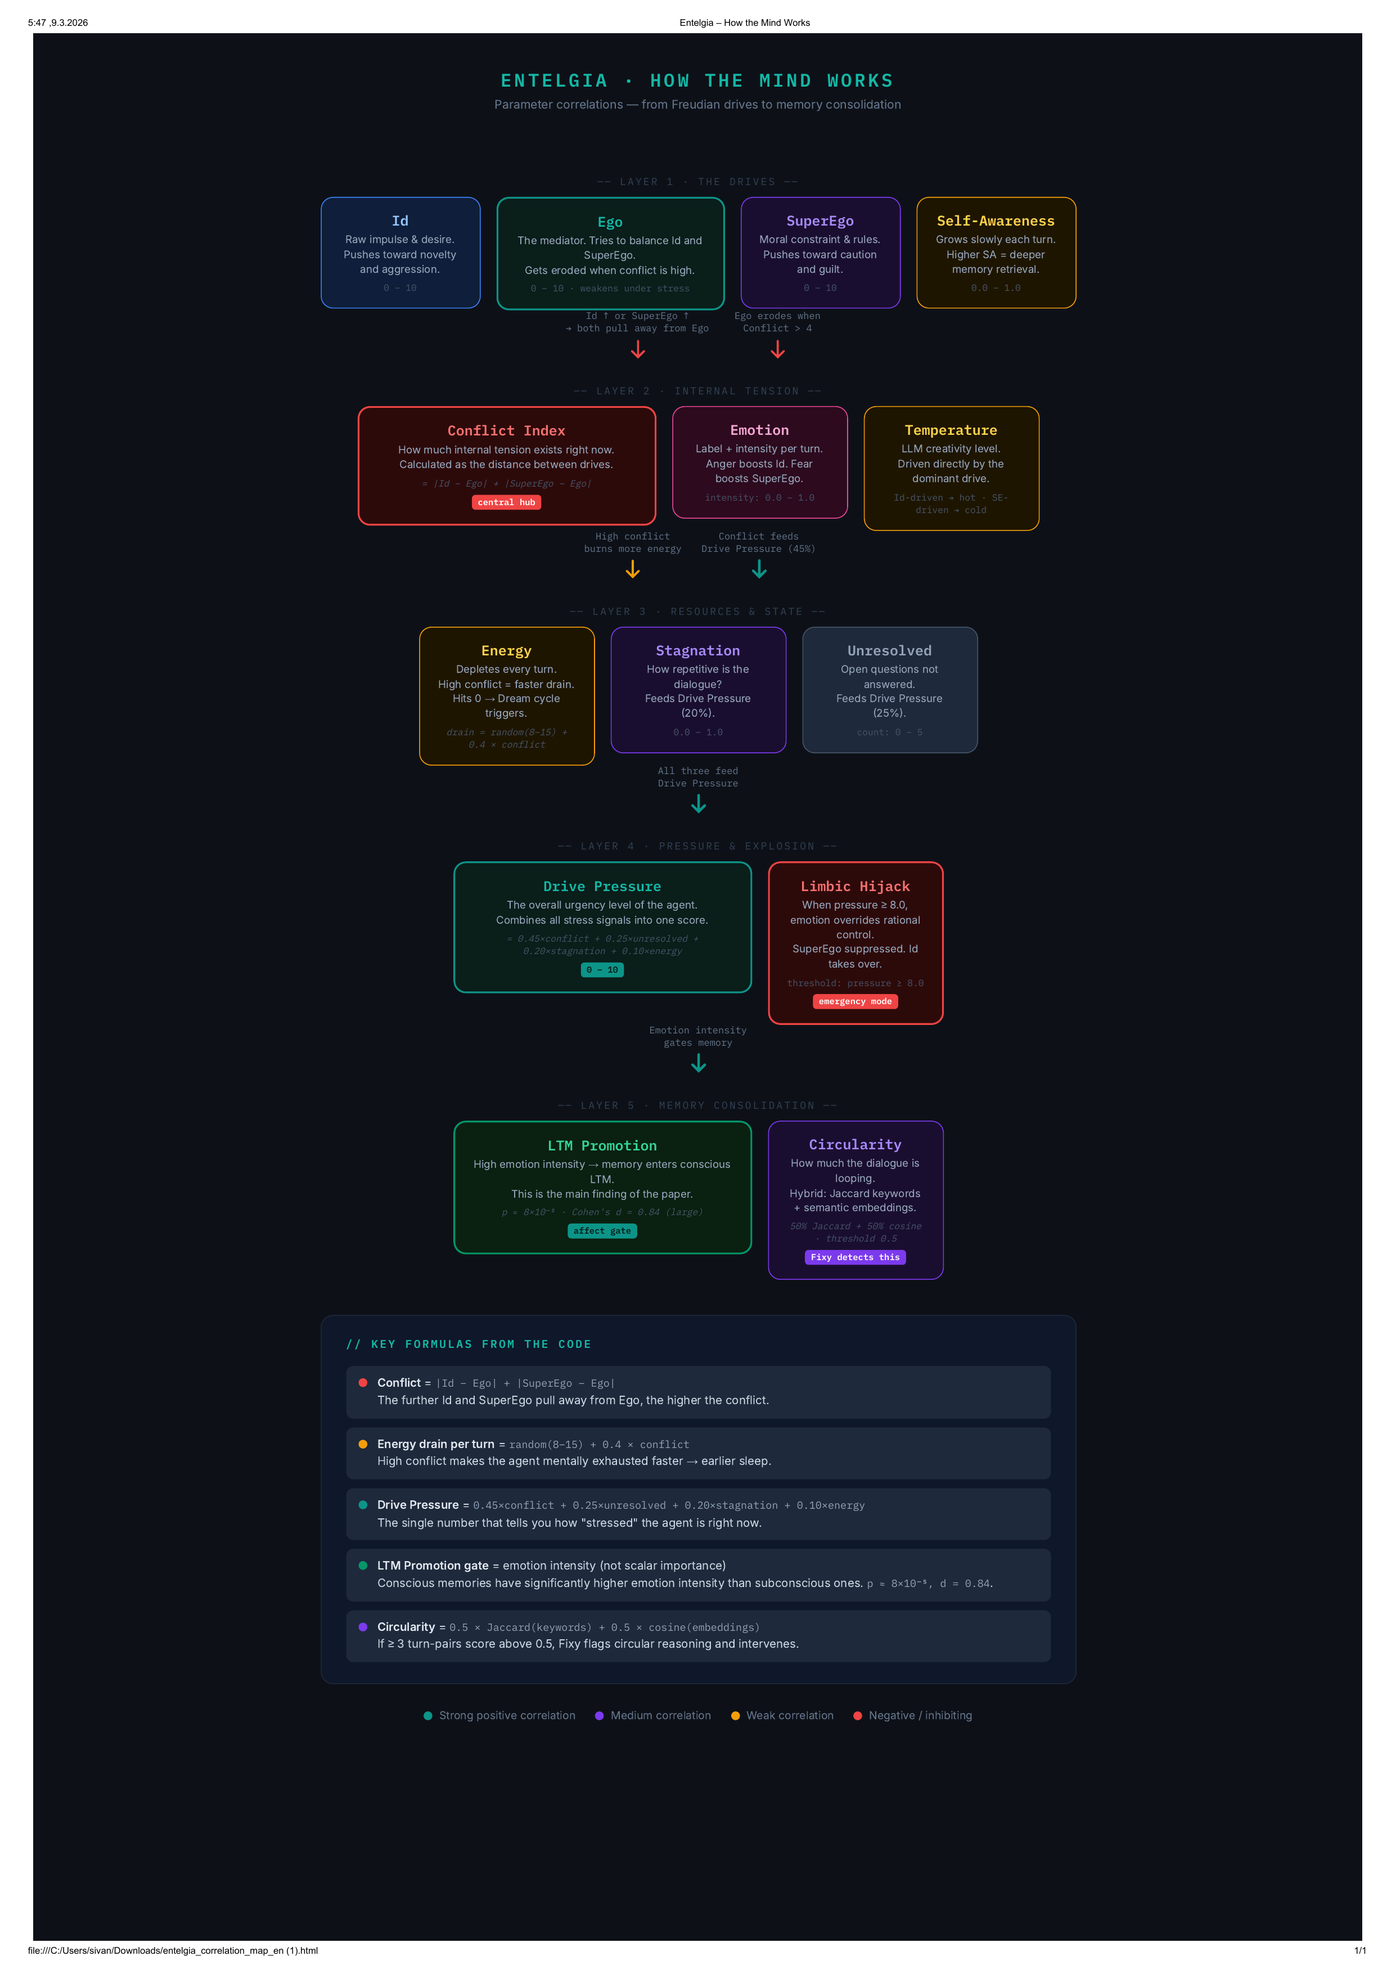
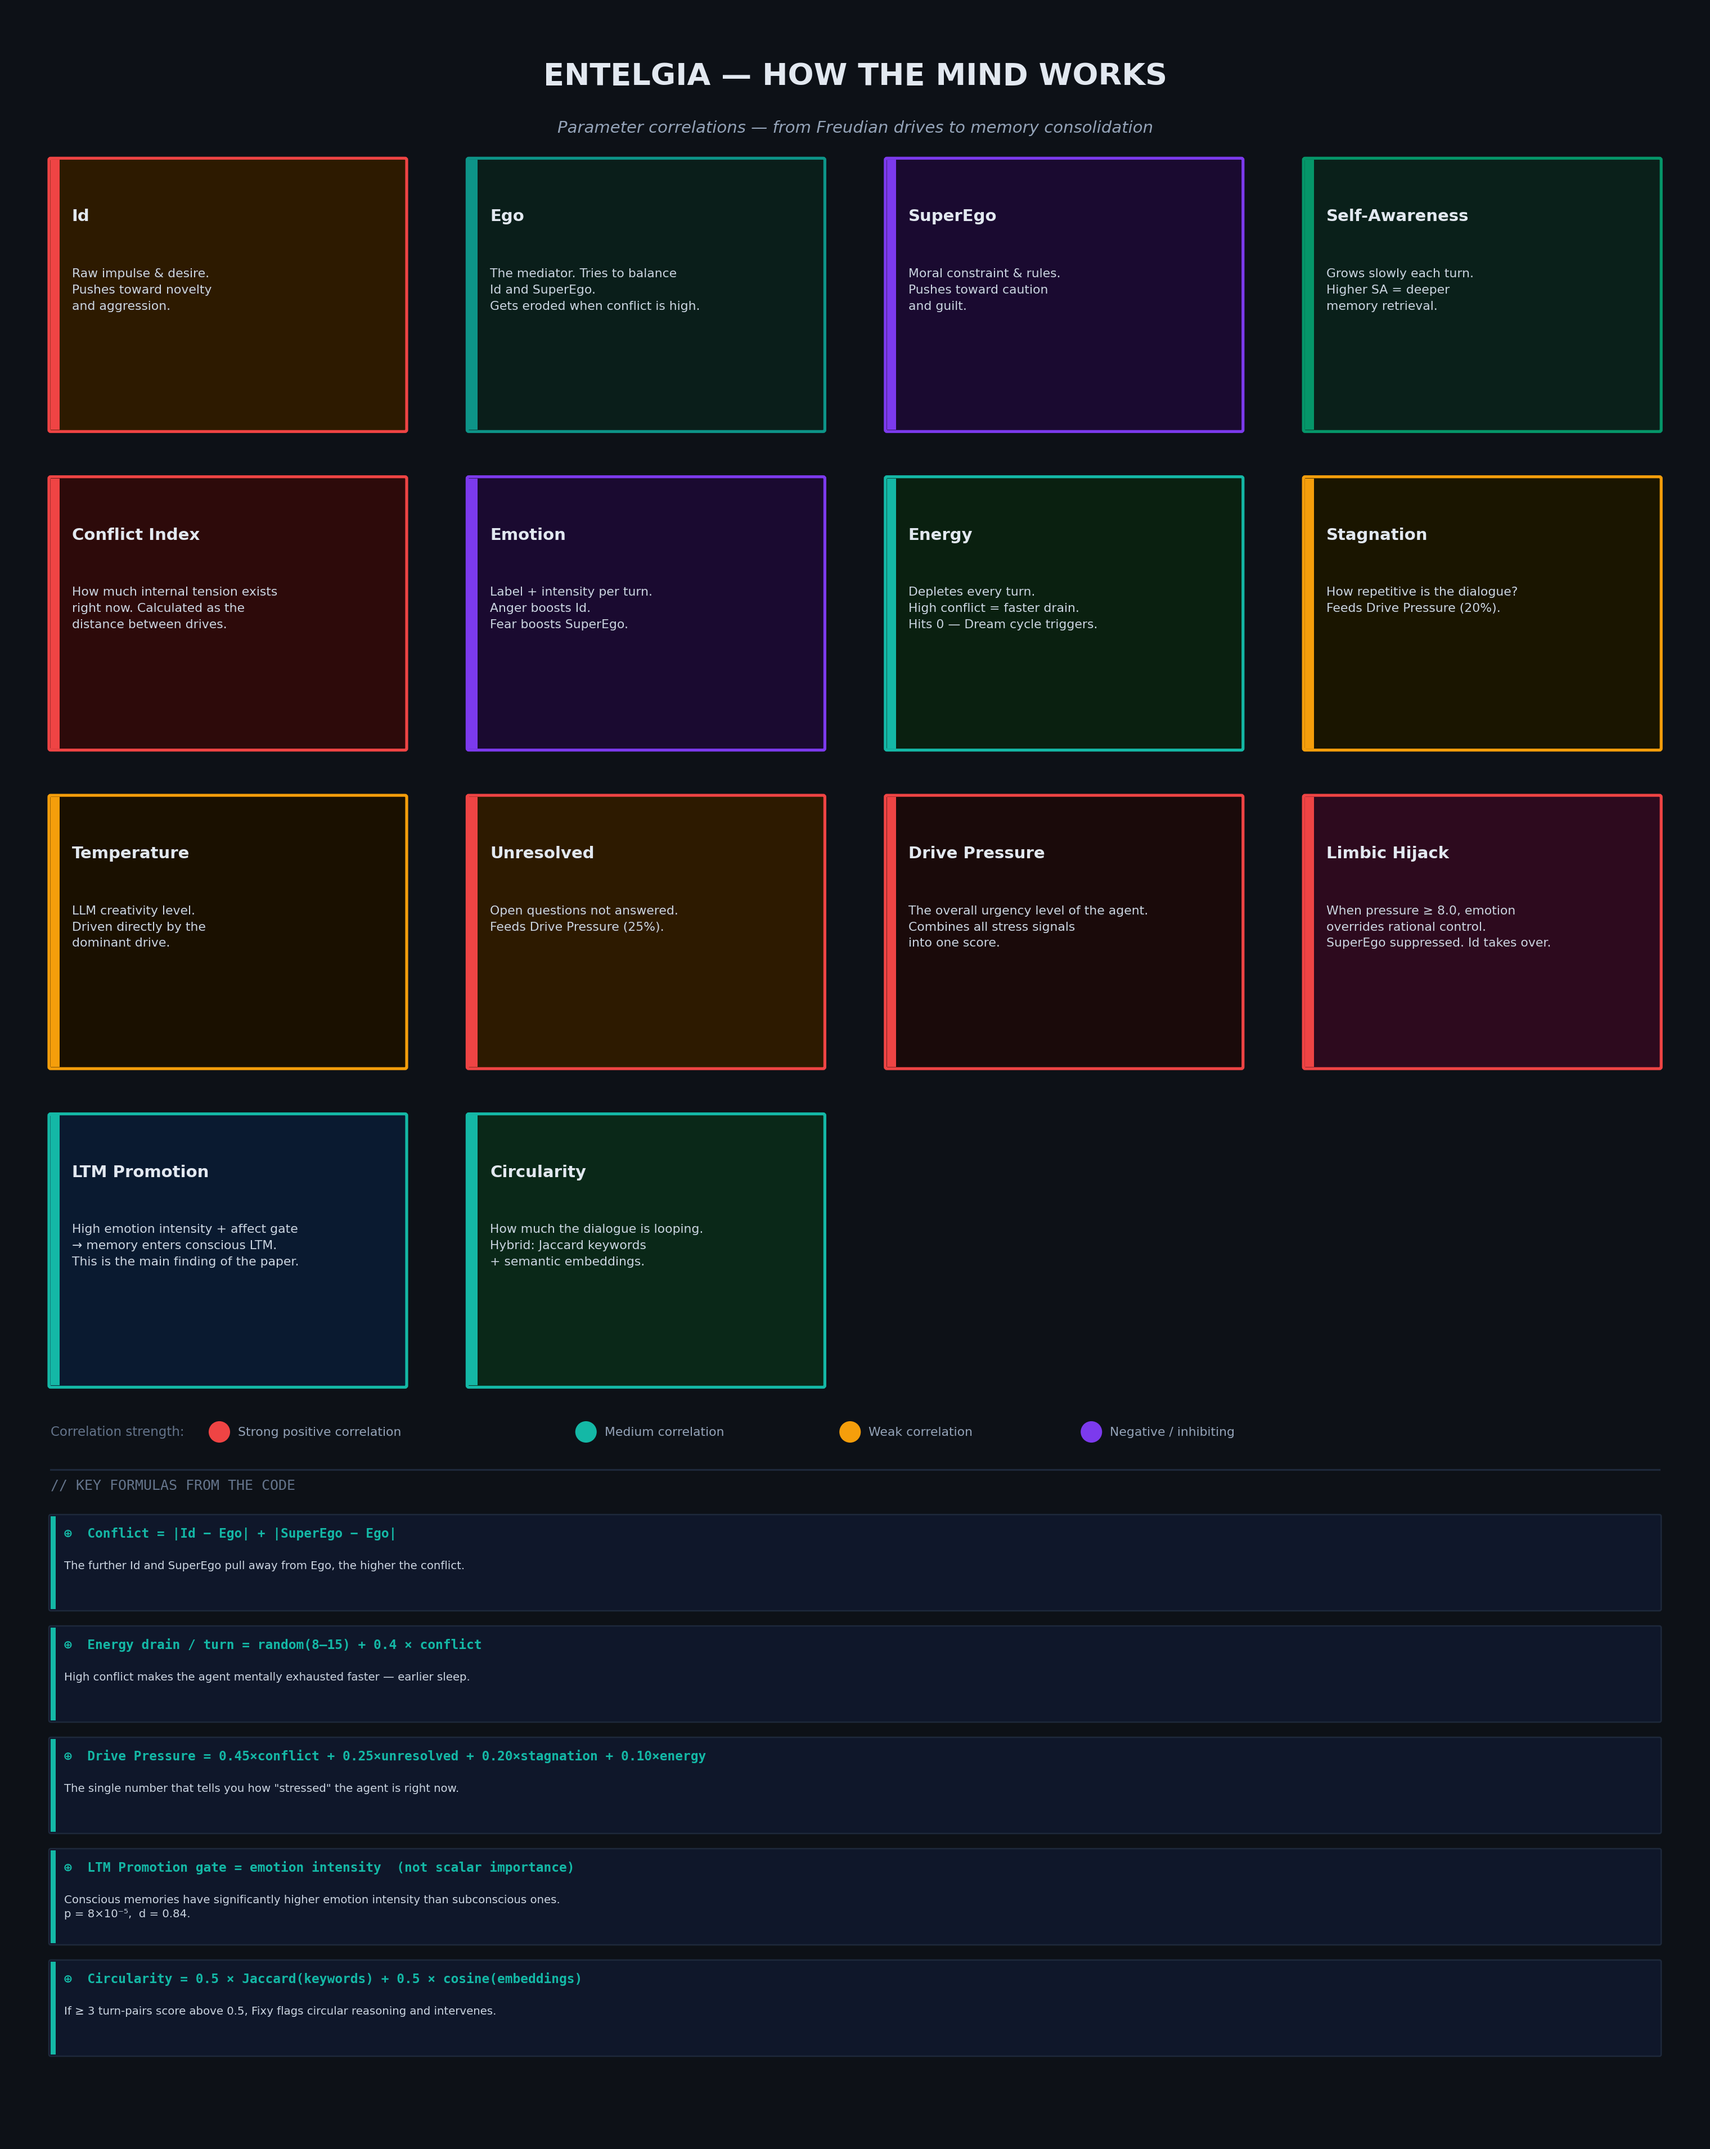
Regenerate correlation map with bigger squares and larger fonts

diff --git a/scripts/generate_correlation_map.py b/scripts/generate_correlation_map.py
@@ -1,0 +1,334 @@
+"""
+Generate Assets/entelgia_correlation_map.png
+
+Produces a styled parameter-correlation diagram for the Entelgia cognitive
+architecture.  Run from the repository root:
+
+    python scripts/generate_correlation_map.py
+
+Requires: matplotlib
+"""
+
+import os
+import sys
+import textwrap
+
+import matplotlib
+matplotlib.use("Agg")
+import matplotlib.pyplot as plt
+import matplotlib.patches as mpatches
+from matplotlib.patches import FancyBboxPatch
+
+# ---------------------------------------------------------------------------
+# Layout & theme
+# ---------------------------------------------------------------------------
+
+BG = "#0d1117"
+CARD_COLORS = {
+    "id":          "#2d1a00",
+    "ego":         "#0a1e1a",
+    "superego":    "#1a0a30",
+    "sa":          "#0a201a",
+    "conflict":    "#2d0a0a",
+    "emotion":     "#1a0a30",
+    "energy":      "#0a2010",
+    "stagnation":  "#1a1500",
+    "temperature": "#1a1000",
+    "unresolved":  "#2d1a00",
+    "pressure":    "#1a0a0a",
+    "hijack":      "#2d0a1e",
+    "ltm":         "#0a1a30",
+    "circularity": "#0a2818",
+}
+
+BORDER_COLORS = {
+    "id":          "#ef4444",
+    "ego":         "#0d9488",
+    "superego":    "#7c3aed",
+    "sa":          "#059669",
+    "conflict":    "#ef4444",
+    "emotion":     "#7c3aed",
+    "energy":      "#14b8a6",
+    "stagnation":  "#f59e0b",
+    "temperature": "#f59e0b",
+    "unresolved":  "#ef4444",
+    "pressure":    "#ef4444",
+    "hijack":      "#ef4444",
+    "ltm":         "#14b8a6",
+    "circularity": "#14b8a6",
+}
+
+TITLE_COLOR = "#e2e8f0"
+SUBTITLE_COLOR = "#94a3b8"
+BODY_COLOR = "#cbd5e1"
+LABEL_COLOR = "#64748b"
+FORMULA_BG = "#0f172a"
+FORMULA_TEXT = "#e2e8f0"
+FORMULA_ACCENT = "#14b8a6"
+
+# ---------------------------------------------------------------------------
+# Parameter card data
+# ---------------------------------------------------------------------------
+
+PARAMS = [
+    ("id",          "Id",              "Raw impulse & desire.\nPushes toward novelty\nand aggression."),
+    ("ego",         "Ego",             "The mediator. Tries to balance\nId and SuperEgo.\nGets eroded when conflict is high."),
+    ("superego",    "SuperEgo",        "Moral constraint & rules.\nPushes toward caution\nand guilt."),
+    ("sa",          "Self-Awareness",  "Grows slowly each turn.\nHigher SA = deeper\nmemory retrieval."),
+    ("conflict",    "Conflict Index",  "How much internal tension exists\nright now. Calculated as the\ndistance between drives."),
+    ("emotion",     "Emotion",         "Label + intensity per turn.\nAnger boosts Id.\nFear boosts SuperEgo."),
+    ("energy",      "Energy",          "Depletes every turn.\nHigh conflict = faster drain.\nHits 0 — Dream cycle triggers."),
+    ("stagnation",  "Stagnation",      "How repetitive is the dialogue?\nFeeds Drive Pressure (20%)."),
+    ("temperature", "Temperature",     "LLM creativity level.\nDriven directly by the\ndominant drive."),
+    ("unresolved",  "Unresolved",      "Open questions not answered.\nFeeds Drive Pressure (25%)."),
+    ("pressure",    "Drive Pressure",  "The overall urgency level of the agent.\nCombines all stress signals\ninto one score."),
+    ("hijack",      "Limbic Hijack",   "When pressure ≥ 8.0, emotion\noverrides rational control.\nSuperEgo suppressed. Id takes over."),
+    ("ltm",         "LTM Promotion",   "High emotion intensity + affect gate\n→ memory enters conscious LTM.\nThis is the main finding of the paper."),
+    ("circularity", "Circularity",     "How much the dialogue is looping.\nHybrid: Jaccard keywords\n+ semantic embeddings."),
+]
+
+FORMULAS = [
+    (
+        "Conflict",
+        "Conflict = |Id − Ego| + |SuperEgo − Ego|",
+        "The further Id and SuperEgo pull away from Ego, the higher the conflict.",
+    ),
+    (
+        "Energy drain",
+        "Energy drain / turn = random(8–15) + 0.4 × conflict",
+        "High conflict makes the agent mentally exhausted faster — earlier sleep.",
+    ),
+    (
+        "Drive Pressure",
+        "Drive Pressure = 0.45×conflict + 0.25×unresolved + 0.20×stagnation + 0.10×energy",
+        'The single number that tells you how "stressed" the agent is right now.',
+    ),
+    (
+        "LTM Promotion",
+        "LTM Promotion gate = emotion intensity  (not scalar importance)",
+        "Conscious memories have significantly higher emotion intensity than subconscious ones.\n"
+        "p = 8×10⁻⁵,  d = 0.84.",
+    ),
+    (
+        "Circularity",
+        "Circularity = 0.5 × Jaccard(keywords) + 0.5 × cosine(embeddings)",
+        "If ≥ 3 turn-pairs score above 0.5, Fixy flags circular reasoning and intervenes.",
+    ),
+]
+
+LEGEND = [
+    ("#ef4444", "Strong positive correlation"),
+    ("#14b8a6", "Medium correlation"),
+    ("#f59e0b", "Weak correlation"),
+    ("#7c3aed", "Negative / inhibiting"),
+]
+
+# ---------------------------------------------------------------------------
+# Drawing helpers
+# ---------------------------------------------------------------------------
+
+COLS = 4
+ROWS_PARAMS = (len(PARAMS) + COLS - 1) // COLS   # ceil
+
+# Figure dimensions — large so cells and text are clearly readable
+CELL_W = 4.2    # inches per column
+CELL_H = 3.2    # inches per row (bigger squares)
+H_PAD  = 0.18  # horizontal gap between cells (fraction of CELL_W)
+V_PAD  = 0.18  # vertical gap between cells (fraction of CELL_H)
+MARGIN_TOP    = 1.8   # inches
+MARGIN_BOTTOM = 0.6
+MARGIN_LR     = 0.5
+
+FIG_W = COLS * CELL_W + (COLS - 1) * CELL_W * H_PAD + 2 * MARGIN_LR
+# formula section height
+FORMULA_H = len(FORMULAS) * 1.35 + 1.0
+FIG_H = (MARGIN_TOP
+         + ROWS_PARAMS * CELL_H + (ROWS_PARAMS - 1) * CELL_H * V_PAD
+         + 0.6            # legend strip
+         + FORMULA_H
+         + MARGIN_BOTTOM)
+
+
+def _card(ax, x, y, w, h, key):
+    """Draw one parameter card at data-coordinates (x, y)."""
+    key_id, label, desc = next(p for p in PARAMS if p[0] == key)
+    bg   = CARD_COLORS[key]
+    edge = BORDER_COLORS[key]
+
+    # Card background
+    rect = FancyBboxPatch(
+        (x, y), w, h,
+        boxstyle="round,pad=0.02",
+        facecolor=bg,
+        edgecolor=edge,
+        linewidth=2.5,
+        zorder=2,
+    )
+    ax.add_patch(rect)
+
+    # Colour indicator bar on the left edge
+    bar = mpatches.Rectangle(
+        (x, y), w * 0.025, h,
+        facecolor=edge,
+        zorder=3,
+    )
+    ax.add_patch(bar)
+
+    # Label
+    ax.text(
+        x + w * 0.06, y + h * 0.82,
+        label,
+        color=TITLE_COLOR,
+        fontsize=14,
+        fontweight="bold",
+        va="top",
+        ha="left",
+        zorder=4,
+    )
+
+    # Description
+    ax.text(
+        x + w * 0.06, y + h * 0.60,
+        desc,
+        color=BODY_COLOR,
+        fontsize=10.5,
+        va="top",
+        ha="left",
+        linespacing=1.55,
+        zorder=4,
+    )
+
+
+# ---------------------------------------------------------------------------
+# Main
+# ---------------------------------------------------------------------------
+
+def generate(output_path: str) -> None:
+    fig = plt.figure(figsize=(FIG_W, FIG_H), facecolor=BG)
+    ax  = fig.add_axes([0, 0, 1, 1])
+    ax.set_facecolor(BG)
+    ax.set_xlim(0, FIG_W)
+    ax.set_ylim(0, FIG_H)
+    ax.axis("off")
+
+    # ── Header ────────────────────────────────────────────────────────────
+    header_y = FIG_H - MARGIN_TOP * 0.35
+    ax.text(
+        FIG_W / 2, header_y,
+        "ENTELGIA — HOW THE MIND WORKS",
+        color=TITLE_COLOR,
+        fontsize=26,
+        fontweight="bold",
+        ha="center",
+        va="top",
+    )
+    ax.text(
+        FIG_W / 2, header_y - 0.7,
+        "Parameter correlations — from Freudian drives to memory consolidation",
+        color=SUBTITLE_COLOR,
+        fontsize=14,
+        ha="center",
+        va="top",
+        style="italic",
+    )
+
+    # ── Parameter cards ───────────────────────────────────────────────────
+    cw = CELL_W
+    ch = CELL_H
+    gx = cw * H_PAD
+    gy = ch * V_PAD
+
+    grid_top = FIG_H - MARGIN_TOP
+    for i, (key, _label, _desc) in enumerate(PARAMS):
+        col = i % COLS
+        row = i // COLS
+        x = MARGIN_LR + col * (cw + gx)
+        y = grid_top - (row + 1) * ch - row * gy
+        _card(ax, x, y, cw, ch, key)
+
+    # ── Legend strip ──────────────────────────────────────────────────────
+    legend_y = (grid_top
+                - ROWS_PARAMS * ch
+                - (ROWS_PARAMS - 1) * gy
+                - 0.55)
+    lx = MARGIN_LR
+    ax.text(lx, legend_y, "Correlation strength:", color=LABEL_COLOR,
+            fontsize=11, va="center")
+    lx += 2.0
+    for color, text in LEGEND:
+        circ = plt.Circle((lx, legend_y), 0.12, color=color, zorder=5)
+        ax.add_patch(circ)
+        ax.text(lx + 0.22, legend_y, text, color=SUBTITLE_COLOR,
+                fontsize=10.5, va="center")
+        lx += len(text) * 0.135 + 0.7
+
+    # ── Formulas section ──────────────────────────────────────────────────
+    formula_top = legend_y - 0.45
+    # Section divider line
+    ax.plot([MARGIN_LR, FIG_W - MARGIN_LR], [formula_top, formula_top],
+            color="#1e293b", linewidth=1.5, zorder=2)
+    ax.text(
+        MARGIN_LR, formula_top - 0.10,
+        "// KEY FORMULAS FROM THE CODE",
+        color=LABEL_COLOR,
+        fontsize=12,
+        va="top",
+        fontfamily="monospace",
+    )
+
+    fy = formula_top - 0.55
+    for _title, formula, note in FORMULAS:
+        # Formula box
+        fw = FIG_W - 2 * MARGIN_LR
+        fh = 1.1
+        rect = FancyBboxPatch(
+            (MARGIN_LR, fy - fh), fw, fh,
+            boxstyle="round,pad=0.02",
+            facecolor=FORMULA_BG,
+            edgecolor="#1e293b",
+            linewidth=1.2,
+            zorder=2,
+        )
+        ax.add_patch(rect)
+
+        # Accent bar
+        bar = mpatches.Rectangle(
+            (MARGIN_LR, fy - fh), 0.06, fh,
+            facecolor=FORMULA_ACCENT,
+            zorder=3,
+        )
+        ax.add_patch(bar)
+
+        # Formula text
+        ax.text(
+            MARGIN_LR + 0.16, fy - 0.12,
+            "⊕  " + formula,
+            color=FORMULA_ACCENT,
+            fontsize=11,
+            fontfamily="monospace",
+            fontweight="bold",
+            va="top",
+            zorder=4,
+        )
+        ax.text(
+            MARGIN_LR + 0.16, fy - 0.52,
+            note,
+            color=BODY_COLOR,
+            fontsize=9.5,
+            va="top",
+            linespacing=1.45,
+            zorder=4,
+        )
+        fy -= fh + 0.22
+
+    # ── Save ──────────────────────────────────────────────────────────────
+    plt.savefig(output_path, dpi=150, bbox_inches="tight",
+                facecolor=BG, edgecolor="none")
+    plt.close(fig)
+    print(f"Saved: {output_path}")
+
+
+if __name__ == "__main__":
+    repo_root = os.path.dirname(os.path.dirname(os.path.abspath(__file__)))
+    out = os.path.join(repo_root, "Assets", "entelgia_correlation_map.png")
+    generate(out)
